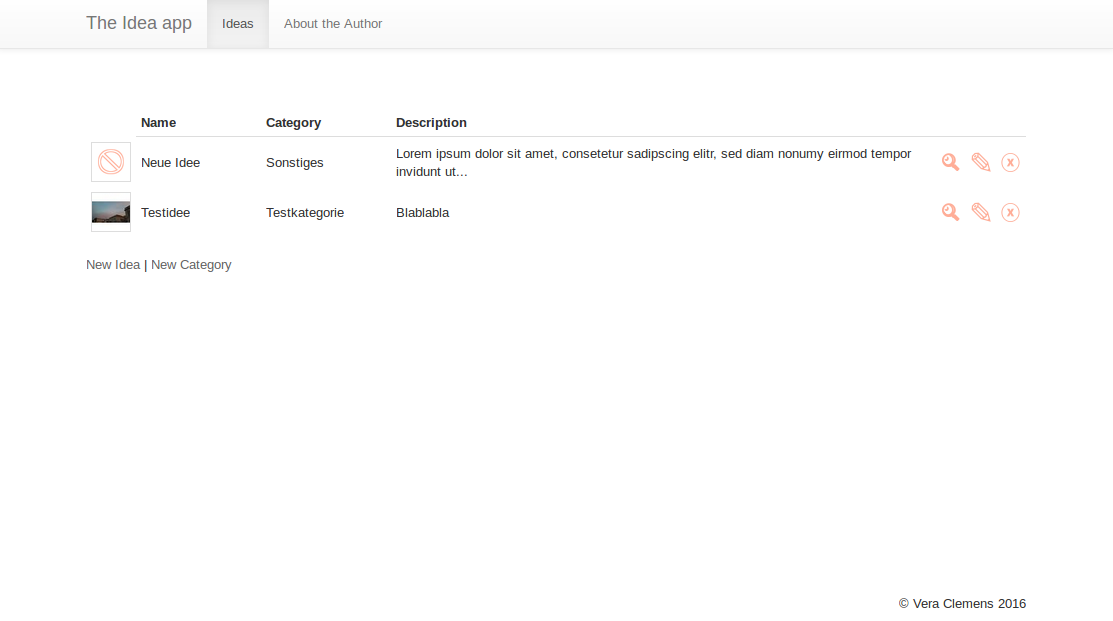
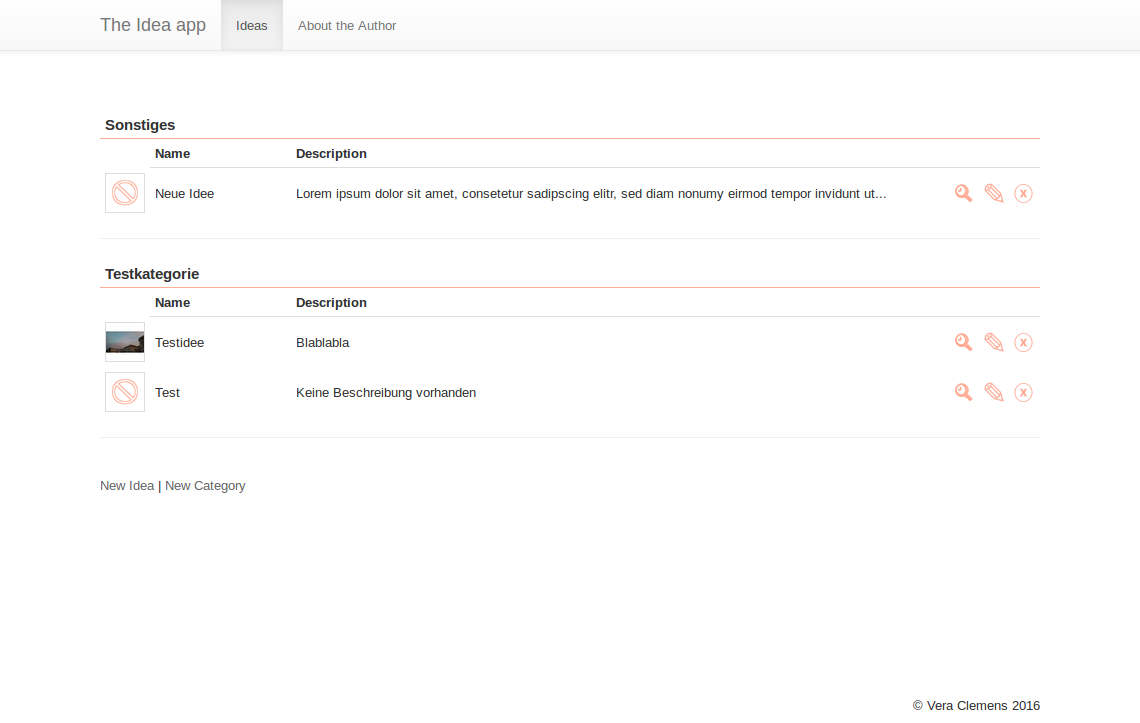
Add functionality: group ideas by category on index
- Ideas are now being displayed grouped by category
- Edit "group ideas by category" test so it works
- Add additional feature test to see if ideas are being displayed at all
- Fixes bug with description truncating if description is nil
- Cosmetic changes to css, update index screenshot for readme

diff --git a/app/assets/stylesheets/ideas.scss b/app/assets/stylesheets/ideas.scss
@@ -24,3 +24,8 @@ th,td {
 }
 
 .button { width: 20px; }
+
+.cat {
+  border-bottom: 1px solid #ffad97;
+  font-size: 15px;
+}

diff --git a/spec/features/group_ideas_by_category_spec.rb b/spec/features/group_ideas_by_category_spec.rb
@@ -4,11 +4,14 @@ feature "Group ideas by category", :type => :feature do
   let(:category1) { create :category, name: "Wow much category" }
   let(:category2) { create :category }
 
-  given "given 3 ideas and 2 categories"  do
+  # 'given' doesn't work for me?
+  # given "given 3 ideas and 2 categories"  do
+  before {
     create :idea, category: category1, name: "Very Idea"
     create :idea, category: category2, name: "So much other category"
     create :idea, category: category1, name: "Idea Wow"
-  end
+  }
+  # end
 
   scenario "See categorized ideas" do
     visit "/ideas"

diff --git a/spec/features/display_ideas_spec.rb b/spec/features/display_ideas_spec.rb
@@ -1,0 +1,15 @@
+require "rails_helper"
+require "spec_helper"
+
+feature "Display ideas", :type => :feature do
+  let(:category) { create :category }
+
+  before { create :idea, category: category }
+
+  scenario "See ideas" do
+    visit "/ideas"
+    save_and_open_page
+
+    expect(page).to have_content("Testidee")
+  end
+end
